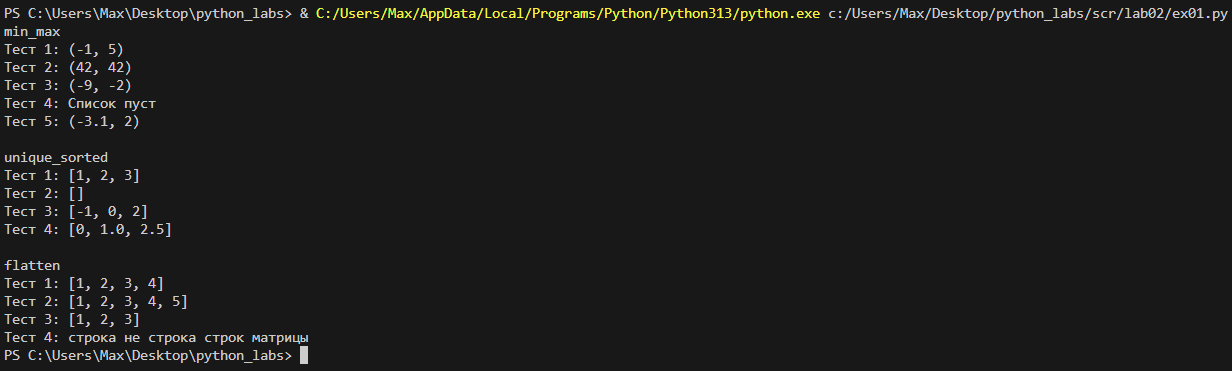
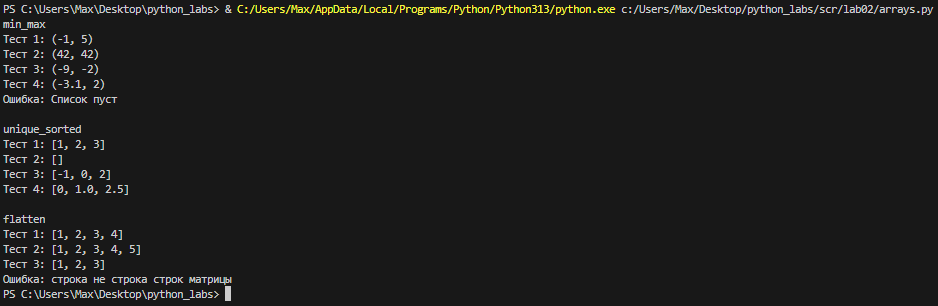
M

Changed region(s): [[0.0, 0.0, 1.0, 0.3529], [0.0, 0.7059, 0.2783, 1.0], [0.0, 0.4118, 0.1546, 0.6471]]

diff --git a/scr/lab02/matrix.py b/scr/lab02/matrix.py
@@ -10,41 +10,50 @@ def check_rectangular(matrix):
 def transpose(mat: list[list[float | int]]) -> list[list]:
     """Транспонирование матрицы (Меняем строки и столбцы местами)"""
     if check_rectangular(mat) == False:
-        return ValueError("Рваная матрица")
+        raise ValueError("Рваная матрица")
 
     if not mat:
         return []
     return [list(item) for item in zip(*mat)]
 
-print(f"\ntranspose")    
-print("Тест 1:", transpose([[1, 2, 3]]))
-print("Тест 2:", transpose([[1], [2], [3]]))
-print("Тест 3:", transpose([[1, 2], [3, 4]]))
-print("Тест 4:", transpose([]))    
-print("Тест 5:", transpose([[1, 2], [3]])) 
+try:
+    print(f"\ntranspose")    
+    print("Тест 1:", transpose([[1, 2, 3]]))
+    print("Тест 2:", transpose([[1], [2], [3]]))
+    print("Тест 3:", transpose([[1, 2], [3, 4]]))
+    print("Тест 4:", transpose([]))    
+    print("Тест 5:", transpose([[1, 2], [3]])) 
+except ValueError as e:
+    print(f"Ошибка: {e}")
 
 def row_sums(mat: list[list[float | int]]) -> list[float]:
     """Возвращает суммы элементов каждой строки матрицы"""
     if check_rectangular(mat) == False:
-        return ValueError("Рваная матрица")
+        raise ValueError("Рваная матрица")
     
     return [sum(item) for item in mat]
 
-print(f"\nrow_sumse")    
-print("Тест 1:", row_sums([[1, 2, 3], [4, 5, 6]]))
-print("Тест 2:", row_sums([[-1, 1], [10, -10]]))
-print("Тест 3:", row_sums([[0, 0], [0, 0]]))    
-print("Тест 4:", row_sums([[1, 2], [3]])) 
+try:
+    print(f"\nrow_sumse")    
+    print("Тест 1:", row_sums([[1, 2, 3], [4, 5, 6]]))
+    print("Тест 2:", row_sums([[-1, 1], [10, -10]]))
+    print("Тест 3:", row_sums([[0, 0], [0, 0]]))    
+    print("Тест 4:", row_sums([[1, 2], [3]])) 
+except ValueError as e:
+    print(f"Ошибка: {e}")
 
 def col_sums(mat: list[list[float | int]]) -> list[float]:
     """Возвращает суммы элементов каждого столбца матрицы"""
     if check_rectangular(mat) == False:
-        return ValueError("Рваная матрица")
+        raise ValueError("Рваная матрица")
     
     return [sum(item) for item in zip(*mat)]
 
-print(f"\ncol_sums")    
-print("Тест 1:", col_sums([[1, 2, 3], [4, 5, 6]]))
-print("Тест 2:", col_sums([[-1, 1], [10, -10]]))
-print("Тест 3:", col_sums([[0, 0], [0, 0]]))    
-print("Тест 4:", col_sums([[1, 2], [3]])) 
+try:
+    print(f"\ncol_sums")    
+    print("Тест 1:", col_sums([[1, 2, 3], [4, 5, 6]]))
+    print("Тест 2:", col_sums([[-1, 1], [10, -10]]))
+    print("Тест 3:", col_sums([[0, 0], [0, 0]]))    
+    print("Тест 4:", col_sums([[1, 2], [3]])) 
+except ValueError as e:
+    print(f"Ошибка: {e}")

diff --git a/scr/lab02/tuples.py b/scr/lab02/tuples.py
@@ -1,13 +1,19 @@
 def format_record(rec: tuple[str, str, float]) -> str:
     """ Форматирует запись о студенте в стандартизированную строку."""
+
+    if not isinstance(rec, tuple):
+            raise ValueError("входные данные должны быть tuple")
+    elif len(rec) != 3:
+            raise ValueError("tuple должен содержать ровно 3 элемента")
+
     result = []
 
     if len(rec[0]) == 0:
-        return ValueError("пустое ФИО") 
+        raise ValueError("пустое ФИО") 
     elif len(rec[1]) == 0:
-        return ValueError("пустая группа")
+        raise ValueError("пустая группа")
     elif not isinstance(rec[2], float):
-        return ValueError("неверный тип GPA") 
+        raise ValueError("неверный тип GPA") 
     
     full_name = ((rec[0].strip()).title()).split()
     full_name_abbrevition = [str(x) for x in " ".join(full_name) if x.isupper()]
@@ -17,10 +23,12 @@ def format_record(rec: tuple[str, str, float]) -> str:
 
     return ", ".join(result)
 
+try:
+    print("Тест 1:", format_record(("Иванов Иван Иванович", "BIVT-25", 4.6)))
+    print("Тест 2:", format_record(("Петров Пётр", "IKBO-12", 5.0)))
+    print("Тест 3:", format_record(("Петров Пётр Петрович", "IKBO-12", 5.0)))
+    print("Тест 4:", format_record(("  сидорова  анна   сергеевна ", "ABB-01", 3.999)))
+    print("Тест 5:", format_record(("сидорова  анна   сергеевна ", "", 3.999)))
 
-print("Тест 1:", format_record(("Иванов Иван Иванович", "BIVT-25", 4.6)))
-print("Тест 2:", format_record(("Петров Пётр", "IKBO-12", 5.0)))
-print("Тест 3:", format_record(("Петров Пётр Петрович", "IKBO-12", 5.0)))
-print("Тест 4:", format_record(("  сидорова  анна   сергеевна ", "ABB-01", 3.999)))
-print("Тест 5:", format_record(("сидорова  анна   сергеевна ", "", 3.999)))
-print("Тест 6:", format_record(("Петров Пётр", "IKBO-12", "5.0")))
+except ValueError as e:
+     print(f"Ошибка {e}")

diff --git a/scr/lab02/arrays.py b/scr/lab02/arrays.py
@@ -2,17 +2,19 @@ def min_max(nums: list[float | int]) -> tuple[float | int, float | int]:
     """Возвращает кортеж (минимум, максимум). Если список пуст — ValueError"""
     
     if len(nums) == 0:
-        return ValueError("Список пуст")
+        raise ValueError("Список пуст")
     
     else:
         return (min(nums),max(nums))
-
-print("min_max")
-print("Тест 1:", min_max([3, -1, 5, 5, 0]))
-print("Тест 2:", min_max([42]))
-print("Тест 3:", min_max([-5, -2, -9]))
-print("Тест 4:", min_max([]))
-print("Тест 5:", min_max([1.5, 2, 2.0, -3.1]))
+try:
+    print("min_max")
+    print("Тест 1:", min_max([3, -1, 5, 5, 0]))
+    print("Тест 2:", min_max([42]))
+    print("Тест 3:", min_max([-5, -2, -9]))
+    print("Тест 4:", min_max([1.5, 2, 2.0, -3.1]))
+    print("Тест 5:", min_max([]))
+except ValueError as e:
+    print(f"Ошибка: {e}")
 
 
 def unique_sorted(nums: list[float | int]) -> list[float | int]:
@@ -33,13 +35,16 @@ def flatten(mat: list[list | tuple]) -> list:
 
     for i in mat:
         if not isinstance(i, (list, tuple)):
-            return TypeError("строка не строка строк матрицы")
+            raise TypeError("строка не строка строк матрицы")
         result.extend(i)    
     
     return result
 
-print(f"\nflatten")
-print("Тест 1:", flatten([[1, 2], [3, 4]]))
-print("Тест 2:", flatten([[1, 2], (3, 4, 5)]))
-print("Тест 3:", flatten([[1], [], [2, 3]]))
-print("Тест 4:", flatten([[1, 2], "ab"]))
+try:
+    print(f"\nflatten")
+    print("Тест 1:", flatten([[1, 2], [3, 4]]))
+    print("Тест 2:", flatten([[1, 2], (3, 4, 5)]))
+    print("Тест 3:", flatten([[1], [], [2, 3]]))
+    print("Тест 4:", flatten([[1, 2], "ab"]))
+except TypeError as e:
+    print(f"Ошибка: {e}")
